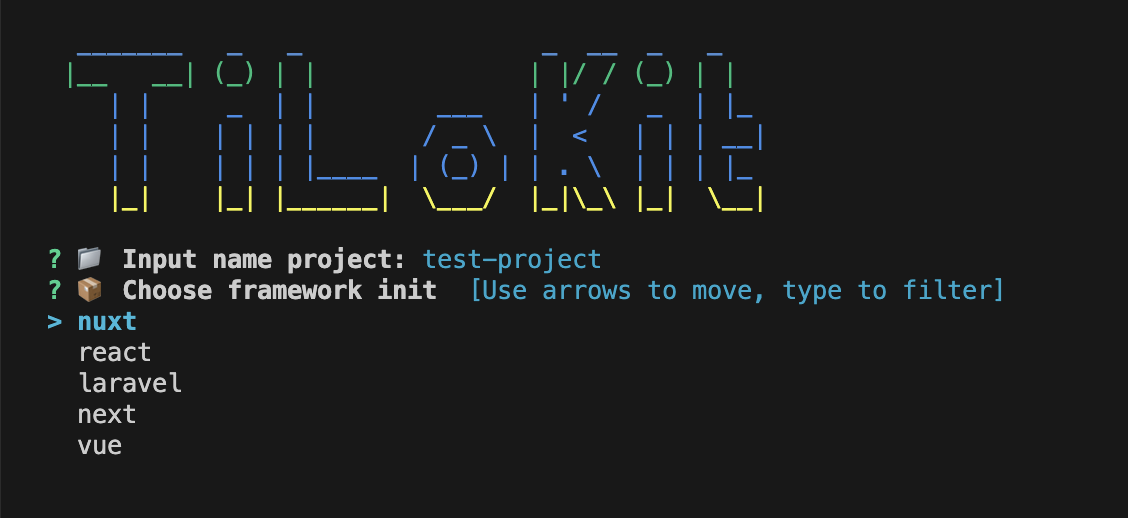
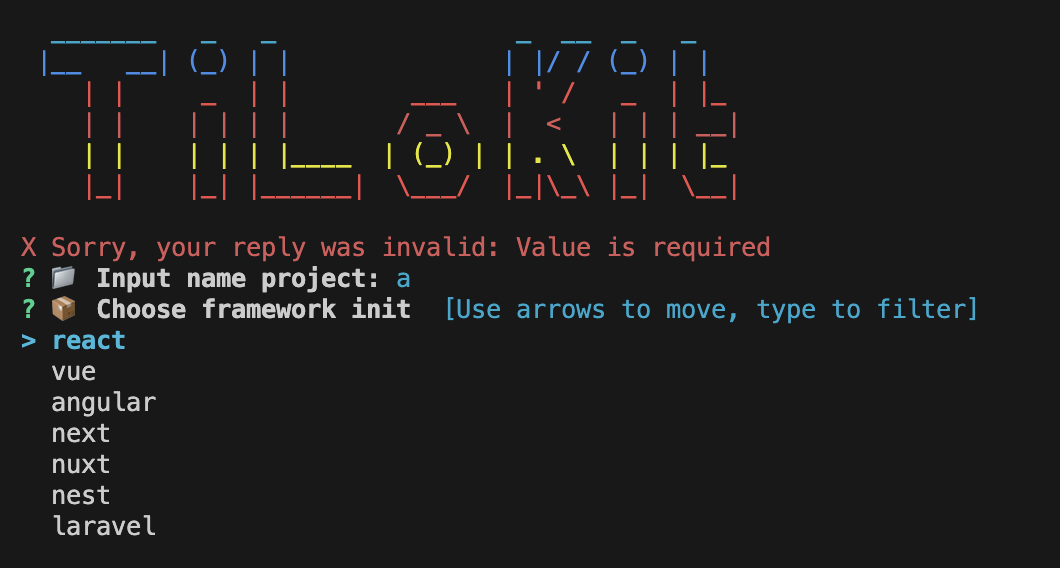
update template

Changed region(s): [[0.0, 0.0618, 0.934, 0.9575], [0.6538, 0.3398, 0.6849, 0.3707], [0.4047, 0.1544, 0.4358, 0.1853]]

diff --git a/internal/platform/registry.go b/internal/platform/registry.go
@@ -6,23 +6,40 @@ import (
 	"github.com/ti-lo/tilokit/internal/scaffold"
 )
 
+// GeneratorFunc defines the function signature for template generators.
 type GeneratorFunc func(projectName string) error
 
-var registry = map[string]GeneratorFunc{
-	"react":   scaffold.GenerateReactOptions,
-	"laravel": scaffold.GenerateLaravelOptions,
-	"next":    scaffold.GenerateNext,
-	"vue":     scaffold.GenerateVue,
-	"nuxt":    scaffold.GenerateNuxtOptions,
+// orderedTemplates defines the order in which templates should be listed in CLI.
+var orderedTemplates = []string{
+	"react",
+	"vue",
+	"angular",
+	"next",
+	"nuxt",
+	"nest",
+	"laravel",
 }
 
-// GetSupportedTemplates returns a slice of all registered template names available for project generation.
+// registry maps template names to their generator functions.
+var registry = map[string]GeneratorFunc{
+	"react":   scaffold.GenerateReactOptions,
+	"vue":     scaffold.GenerateVueOptions,
+	"angular": scaffold.GenerateAngularOptions,
+	"next":    scaffold.GenerateNextOptions,
+	"nuxt":    scaffold.GenerateNuxtOptions,
+	"nest":    scaffold.GenerateNestOptions,
+	"laravel": scaffold.GenerateLaravelOptions,
+}
+
+// GetSupportedTemplates returns template names in the order defined in orderedTemplates.
 func GetSupportedTemplates() []string {
-	keys := []string{}
-	for k := range registry {
-		keys = append(keys, k)
+	templates := []string{}
+	for _, name := range orderedTemplates {
+		if _, ok := registry[name]; ok {
+			templates = append(templates, name)
+		}
 	}
-	return keys
+	return templates
 }
 
 // Exists reports whether a template with the given name is registered.
@@ -32,10 +49,9 @@ func Exists(name string) bool {
 }
 
 // Generate creates a new project using the specified template and project name.
-// Returns an error if the template does not exist or if project generation fails.
 func Generate(name, projectName string) error {
 	if gen, ok := registry[name]; ok {
 		return gen(projectName)
 	}
-	return fmt.Errorf("template '%s' không tồn tại", name)
+	return fmt.Errorf("template '%s' does not exist", name)
 }

diff --git a/internal/scaffold/next.go b/internal/scaffold/next.go
@@ -5,9 +5,9 @@ import (
 	"os"
 )
 
-// GenerateLaravel creates a new directory for a Laravel project with the specified name.
+// GenerateNextOptions creates a new directory for a Next project with the specified name.
 // Returns an error if the directory cannot be created.
-func GenerateNext(projectName string) error {
+func GenerateNextOptions(projectName string) error {
 	fmt.Println("🚧 Create template Next", projectName)
 
 	if err := os.MkdirAll(projectName, os.ModePerm); err != nil {

diff --git a/internal/scaffold/angular.go b/internal/scaffold/angular.go
@@ -1,1 +1,18 @@
 package scaffold
+
+import (
+	"fmt"
+	"os"
+)
+
+// GenerateAngular creates a new directory for an Angular project with the specified name.
+// Returns an error if the directory cannot be created.
+func GenerateAngularOptions(projectName string) error {
+	fmt.Println("🚧 Create template Angular:", projectName)
+
+	if err := os.MkdirAll(projectName, os.ModePerm); err != nil {
+		return fmt.Errorf("internal error creating project directory: %w", err)
+	}
+
+	return nil
+}

diff --git a/internal/scaffold/nest.go b/internal/scaffold/nest.go
@@ -1,1 +1,17 @@
 package scaffold
+
+import (
+	"fmt"
+	"os"
+)
+
+// GenerateNestOptions creates a new directory for a Nest project with the specified name.
+func GenerateNestOptions(projectName string) error {
+	fmt.Println("🚧 Create template Nest:", projectName)
+
+	if err := os.MkdirAll(projectName, os.ModePerm); err != nil {
+		return fmt.Errorf("internal error creating project directory: %w", err)
+	}
+
+	return nil
+}

diff --git a/internal/scaffold/vue.go b/internal/scaffold/vue.go
@@ -7,7 +7,7 @@ import (
 
 // GenerateLaravel creates a new directory for a Laravel project with the specified name.
 // Returns an error if the directory cannot be created.
-func GenerateVue(projectName string) error {
+func GenerateVueOptions(projectName string) error {
 	fmt.Println("🚧 Create template Vue:", projectName)
 
 	if err := os.MkdirAll(projectName, os.ModePerm); err != nil {

diff --git a/internal/scaffold/laravel.go b/internal/scaffold/laravel.go
@@ -5,6 +5,7 @@ import (
 	"os"
 )
 
+// GenerateLaravelOptions creates a new directory for a Laravel project with the specified name.
 func GenerateLaravelOptions(projectName string) error {
 	fmt.Println("🚧 Create template Laravel:", projectName)
 

diff --git a/README.md b/README.md
@@ -1,7 +1,7 @@
 # ✨ TiLoKit – Lightweight Multi-Framework Project Scaffold Generator
 
 <p align="left">
-  <img src="./assets/banner.png" alt="TiLoKit CLI Banner" width="700"/>
+  <img src="./assets/banner.png" alt="TiLoKit CLI Banner" width="850"/>
 </p>
 
 
